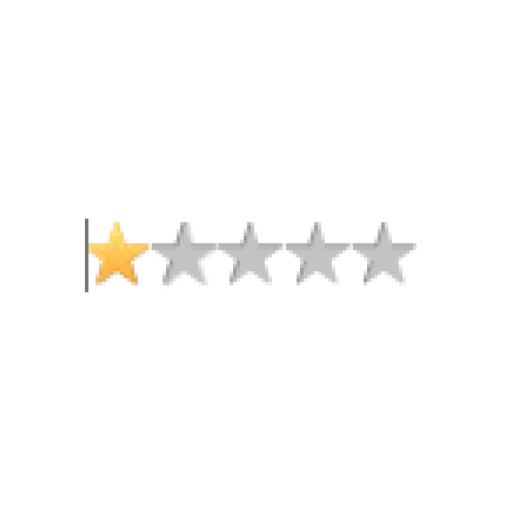
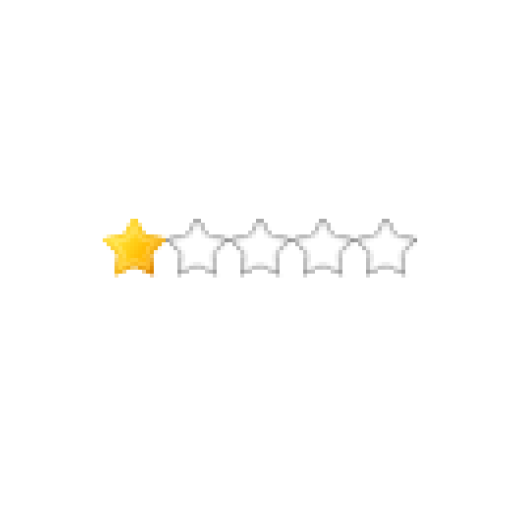
Rating images

Changed region(s): [[0.1562, 0.4062, 0.8125, 0.5625]]

diff --git a/src/com/yahoo/lsbeapp/model/Review.java b/src/com/yahoo/lsbeapp/model/Review.java
@@ -5,6 +5,7 @@ import java.util.ArrayList;
 import org.json.JSONArray;
 import org.json.JSONException;
 import org.json.JSONObject;
+import com.yahoo.lsbeapp.R;
 
 public class Review extends BaseModel {
 	private String alias;
@@ -17,16 +18,54 @@ public class Review extends BaseModel {
 	}
 	
 	public String getAlias() {
-		return alias;
+		return ("".equals(alias)) ? "Kelly Hu" : alias;
 	}
+	
 	public String getDate() {
 		return date;
 	}
+	
 	public String getText() {
 		return review;
 	}
+	
 	public String getRating() {
 		return rating;
+	}
+
+	public int getRatingIcon() {
+		int intRating = 0;
+		int ratingIcon;
+		try {
+			intRating = Integer.parseInt(rating);
+			intRating = Math.round(intRating);
+			if (intRating < 0 || intRating > 5) {
+				intRating = 0;
+			}
+		} catch (NumberFormatException e) {
+			e.printStackTrace();
+		}
+		switch (intRating) {
+		case 2:
+			ratingIcon = R.drawable.star2;
+			break;
+		case 3:
+			ratingIcon = R.drawable.star3;
+			break;
+		case 4:
+			ratingIcon = R.drawable.star4;
+			break;
+		case 5:
+			ratingIcon = R.drawable.star5;
+			break;
+		case 0:
+		case 1:
+		default:
+			ratingIcon = R.drawable.star1;
+			break;
+
+		}
+		return ratingIcon;
 	}
 	
 	public static Review fromJSON(JSONObject jsonObj) {
@@ -36,7 +75,12 @@ public class Review extends BaseModel {
 		if (review.date != null) {
 			review.date = review.date.substring(0, review.date.indexOf(" "));
 		}
-		review.review = review.getString("text");
+		String text = review.getString("text");
+		if (text != null) {
+			text = text.substring(1);
+			review.review = text;
+		}
+		
 		review.rating = review.getString("rating");
 		return review;
 	}

diff --git a/src/com/yahoo/lsbeapp/ReviewAdapter.java b/src/com/yahoo/lsbeapp/ReviewAdapter.java
@@ -9,6 +9,7 @@ import android.view.ViewGroup;
 import android.widget.ArrayAdapter;
 import android.widget.TextView;
 
+import com.loopj.android.image.SmartImageView;
 import com.yahoo.lsbeapp.model.Review;
 
 public class ReviewAdapter extends ArrayAdapter<Review> {
@@ -28,8 +29,8 @@ public class ReviewAdapter extends ArrayAdapter<Review> {
 		
 		((TextView) view.findViewById(R.id.tvAlias)).setText(review.getAlias());
 		((TextView) view.findViewById(R.id.tvDate)).setText(review.getDate());
+		((SmartImageView) view.findViewById(R.id.imgRating)).setImageResource(review.getRatingIcon());
 		((TextView) view.findViewById(R.id.tvText)).setText(review.truncatedString(review.getText(), 100));
-		
 		return view;
 	}
 }

diff --git a/src/com/yahoo/lsbeapp/ListingAdapter.java b/src/com/yahoo/lsbeapp/ListingAdapter.java
@@ -28,6 +28,7 @@ public class ListingAdapter extends ArrayAdapter<Listing> {
 		if (convertView == null) {
 			LayoutInflater inflater = (LayoutInflater) getContext().getSystemService(Context.LAYOUT_INFLATER_SERVICE);
 			view = inflater.inflate(R.layout.biz_item, null);
+		} else {
 			((SmartImageView) view.findViewById(R.id.imgBiz)).setImageResource(android.R.color.transparent);
 		}
 		

diff --git a/src/com/yahoo/lsbeapp/SearchMapResultsActivity.java b/src/com/yahoo/lsbeapp/SearchMapResultsActivity.java
@@ -5,6 +5,7 @@ import java.util.ArrayList;
 import android.content.Intent;
 import android.os.Bundle;
 import android.support.v4.app.FragmentActivity;
+import android.util.Log;
 
 import com.google.android.gms.maps.CameraUpdateFactory;
 import com.google.android.gms.maps.GoogleMap;
